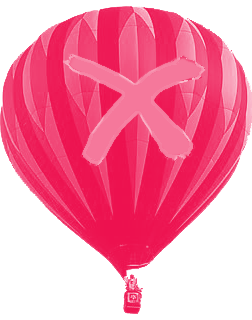
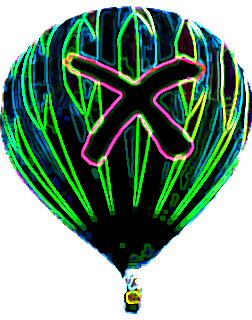
new assets added

diff --git a/game.py b/game.py
@@ -68,7 +68,7 @@ class Balloon (pygame.sprite.Sprite):
         self.dx = dx
         self.dy = dy
         
-        self.image = pygame.transform.scale (load_image(image_file), (100, 200))
+        self.image = pygame.transform.scale (load_image(image_file), (132, 200))
         self.rect = self.image.get_rect()
         self.rect.topleft = (self.x, self.y)
         self.image_w, self.image_h = self.image.get_size()
@@ -186,7 +186,7 @@ def game(screen):
     
     pygame.key.set_repeat(FPS, FPS) # set key repeat on 
     
-    balloon = Balloon(screen, SCREEN_WIDTH / 2 - 50, SCREEN_HEIGHT, 0, balloon_speed, "assets/balloon.gif")
+    balloon = Balloon(screen, SCREEN_WIDTH / 2 - 50, SCREEN_HEIGHT, 0, balloon_speed, "assets/balloon.png")
     
     airplanes = pygame.sprite.Group()
     birds = pygame.sprite.Group()
@@ -251,9 +251,9 @@ def game(screen):
             elif event.type == USEREVENT + 3 and score>=5:
                 birds.add(Enemy(screen, init_x, randint(-50, SCREEN_HEIGHT + 50), randint(2,4), 0, "assets/balloon.gif", (80, 80), 1, 1))
                 if score >=20 and score<40:
-                    missiles.add(Enemy(screen, randint(0, SCREEN_WIDTH), SCREEN_HEIGHT, 0, randint(-8, -3), "assets/missile.gif", (15, 50), 1, 1))
+                    missiles.add(Enemy(screen, randint(0, SCREEN_WIDTH), SCREEN_HEIGHT, 0, randint(-8, -3), "assets/missile.png", (15, 50), 1, 1))
             elif event.type == USEREVENT + 4 and score>=50:
-                missiles.add(Enemy(screen, randint(0, SCREEN_WIDTH), SCREEN_HEIGHT, 0, randint(-8, -3), "assets/missile.gif", (15, 50), 1, 1))
+                missiles.add(Enemy(screen, randint(0, SCREEN_WIDTH), SCREEN_HEIGHT, 0, randint(-8, -3), "assets/missile.png", (15, 50), 1, 1))
         
             elif event.type == USEREVENT + 5 and score>=30:
                 powerups.add(Enemy(screen, randint(100, SCREEN_WIDTH-100), 0, 0, 3, "assets/balloon.gif", (80, 80), 1, 1))
